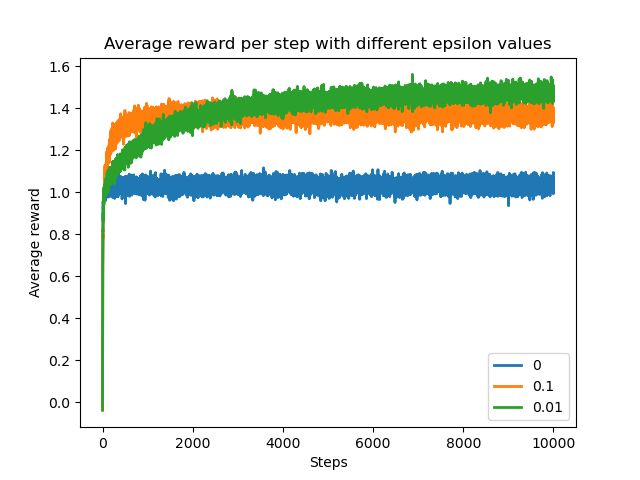
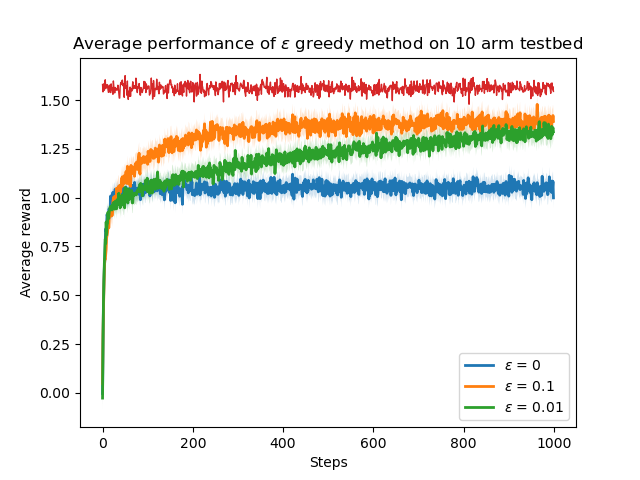
Average reward and optimal action reward plots

diff --git a/Ex1/src/main.py b/Ex1/src/main.py
@@ -1,12 +1,13 @@
 import random
 import matplotlib.pyplot as plt
+import matplotlib.ticker as mtick
 
 import numpy as np
 from Ex1.src.Bandit import Bandit
 from Ex1.src.Action import Action
 
 
-def q1(number_of_arms=10, iterations=100):
+def q4(number_of_arms=10, iterations=100):
     true_values = np.random.normal(0, 1, number_of_arms)
     print(true_values)
     B = Bandit(0)
@@ -28,31 +29,87 @@ def q1(number_of_arms=10, iterations=100):
     return
 
 
-def q2(eps, number_of_arms=10, runs=2000, steps=10000):
-    xdata = [x for x in range(steps)]
-    for epsilon in eps:
-        arm_rewards = [[] for i in range(runs)]
-        for i in range(runs):
-            true_values = np.random.normal(0, 1, number_of_arms)
-            B = Bandit(epsilon)
-            for j in true_values:
-                B.add_action(Action(j, 0, 1))
-            for s in range(steps):
-                best_action = B.choose_action()
-                reward = best_action.play_action()
-                best_action.sample_average_update(reward)
-                arm_rewards[i].append(reward)
+def run_bandit_trial(B, eps, steps, optimal_curve=False, optimal_action_trial=False):
+    trial_rewards = []
+    for i in range(steps):
+        if optimal_action_trial:
+            best_action = B.optimal_action
+        else:
+            best_action = B.choose_action(eps)
+        reward = best_action.play_action()
+        best_action.sample_average_update(reward)
+        if optimal_curve:
+            trial_rewards.append(B.optimal_action == best_action)
+        else:
+            trial_rewards.append(reward)
+    return trial_rewards
 
-        ydata = np.average(arm_rewards, axis=0)
-        plt.plot(xdata, ydata, linewidth=2, label=str(epsilon))
-    plt.ylabel('Average reward')
+
+def plot_curve(runs, eps, steps, average_blocks, total_optimal_rewards, optimal_curve=False):
+    xdata = [x for x in range(steps)]
+    for i in range(len(eps)):
+        ydata = np.average(average_blocks[i], axis=0)
+        ydata_std = np.std(average_blocks[i], axis=0)
+        ydata_std /= np.sqrt(runs)
+        ydata_std *= 1.96
+        plt.plot(xdata, ydata, linewidth=2, label=r'$\epsilon$ = ' + str(eps[i]))
+        plt.fill_between(xdata, np.subtract(ydata, ydata_std), np.add(ydata, ydata_std), alpha=0.2)
+
+    ydata = np.average(total_optimal_rewards, axis=0)
+
+    plt.plot(xdata, ydata, linewidth=1)
+    if optimal_curve:
+        plt.gca().yaxis.set_major_formatter(mtick.PercentFormatter(1))
+
+    if optimal_curve:
+        plt.ylabel('% Optimal Action')
+        plt.title("Optimal action % per step with different epsilon values")
+    else:
+        plt.ylabel('Average reward')
+        plt.title("Average performance of $\epsilon$ greedy method on 10 arm testbed")
     plt.xlabel('Steps')
-    plt.title("Average reward per step with different epsilon values")
+
     plt.legend()
     plt.show()
 
 
+def q6(eps, optimal_curve=False, number_of_arms=10, runs=200, steps=1000):
+    total_rewards = []
+    total_optimal_rewards = []
+    for i in range(runs):
+        true_values = np.random.normal(0, 1, number_of_arms)
+        max_value = max(true_values)
+        B = Bandit()
+        rewards_per_trial = []
+        for j in true_values:
+            if j == max_value:
+                B.add_action(Action(j, 0, 1), True)
+            else:
+                B.add_action(Action(j, 0, 1), False)
+        optimal_rewards = run_bandit_trial(B, 0, steps, optimal_curve, optimal_action_trial=True)
+        total_optimal_rewards.append(optimal_rewards)
+        for epsilon in range(len(eps)):
+            B.reset()
+            rewards_per_eps = run_bandit_trial(B, eps[epsilon], steps, optimal_curve, optimal_action_trial=False)
+            rewards_per_trial.append(rewards_per_eps)
+        total_rewards.append(rewards_per_trial)
+
+    average_blocks = []
+    for i in range(len(eps)):
+        eps_block = []
+        for j in range(runs):
+            eps_block.append(total_rewards[j][i])
+        average_blocks.append(eps_block)
+
+    plot_curve(runs, eps, steps, average_blocks, total_optimal_rewards, optimal_curve)
+
+
 if __name__ == "__main__":
-    # q1(10,10000)
-    q2([0, 0.1, 0.01])
+    epsilon_list = [0, 0.1, 0.01]
+    number_of_arms = 10
+    runs = 2000
+    step = 1000
+    optimal_curve = True
+    # q4(10,10000)
+    q6(epsilon_list, optimal_curve, number_of_arms, runs, step)
     # q2(0.01)

diff --git a/Ex1/src/Bandit.py b/Ex1/src/Bandit.py
@@ -1,17 +1,27 @@
 import random
+import numpy as np
 
 
 class Bandit:
-    def __init__(self, epsilon):
+    def __init__(self):
         self.actions = []
-        self.epsilon = epsilon
+        self.optimal_action = 0
 
-    def add_action(self, action):
+    def reset(self):
+        for action in self.actions:
+            action.current_value = 0
+            action.occurrence = 0
+        return
+
+    def add_action(self, action, is_optimal=False):
         self.actions.append(action)
+        if is_optimal:
+            self.optimal_action = action
+        return
 
-    def choose_action(self):
+    def choose_action(self, epsilon):
         val = random.random()
-        if val < self.epsilon:
+        if val <= epsilon:
             return random.choice(self.actions)
         else:
             all_values = [i.current_value for i in self.actions]

diff --git a/Ex1/src/Action.py b/Ex1/src/Action.py
@@ -4,7 +4,7 @@ import numpy as np
 class Action:
     def __init__(self, value, initial_value, alpha):
         self.true_value = value
-        self.occurrence = 1
+        self.occurrence = 0
         self.current_value = initial_value
         self.alpha = alpha
 
@@ -14,7 +14,6 @@ class Action:
     def sample_average_update(self, reward):
         self.occurrence += 1
         self.current_value += (reward - self.current_value) / self.occurrence
-
 
     def exponential_recency_weighted_average(self, reward):
         self.current_value = self.current_value + self.alpha(reward - self.current_value)
